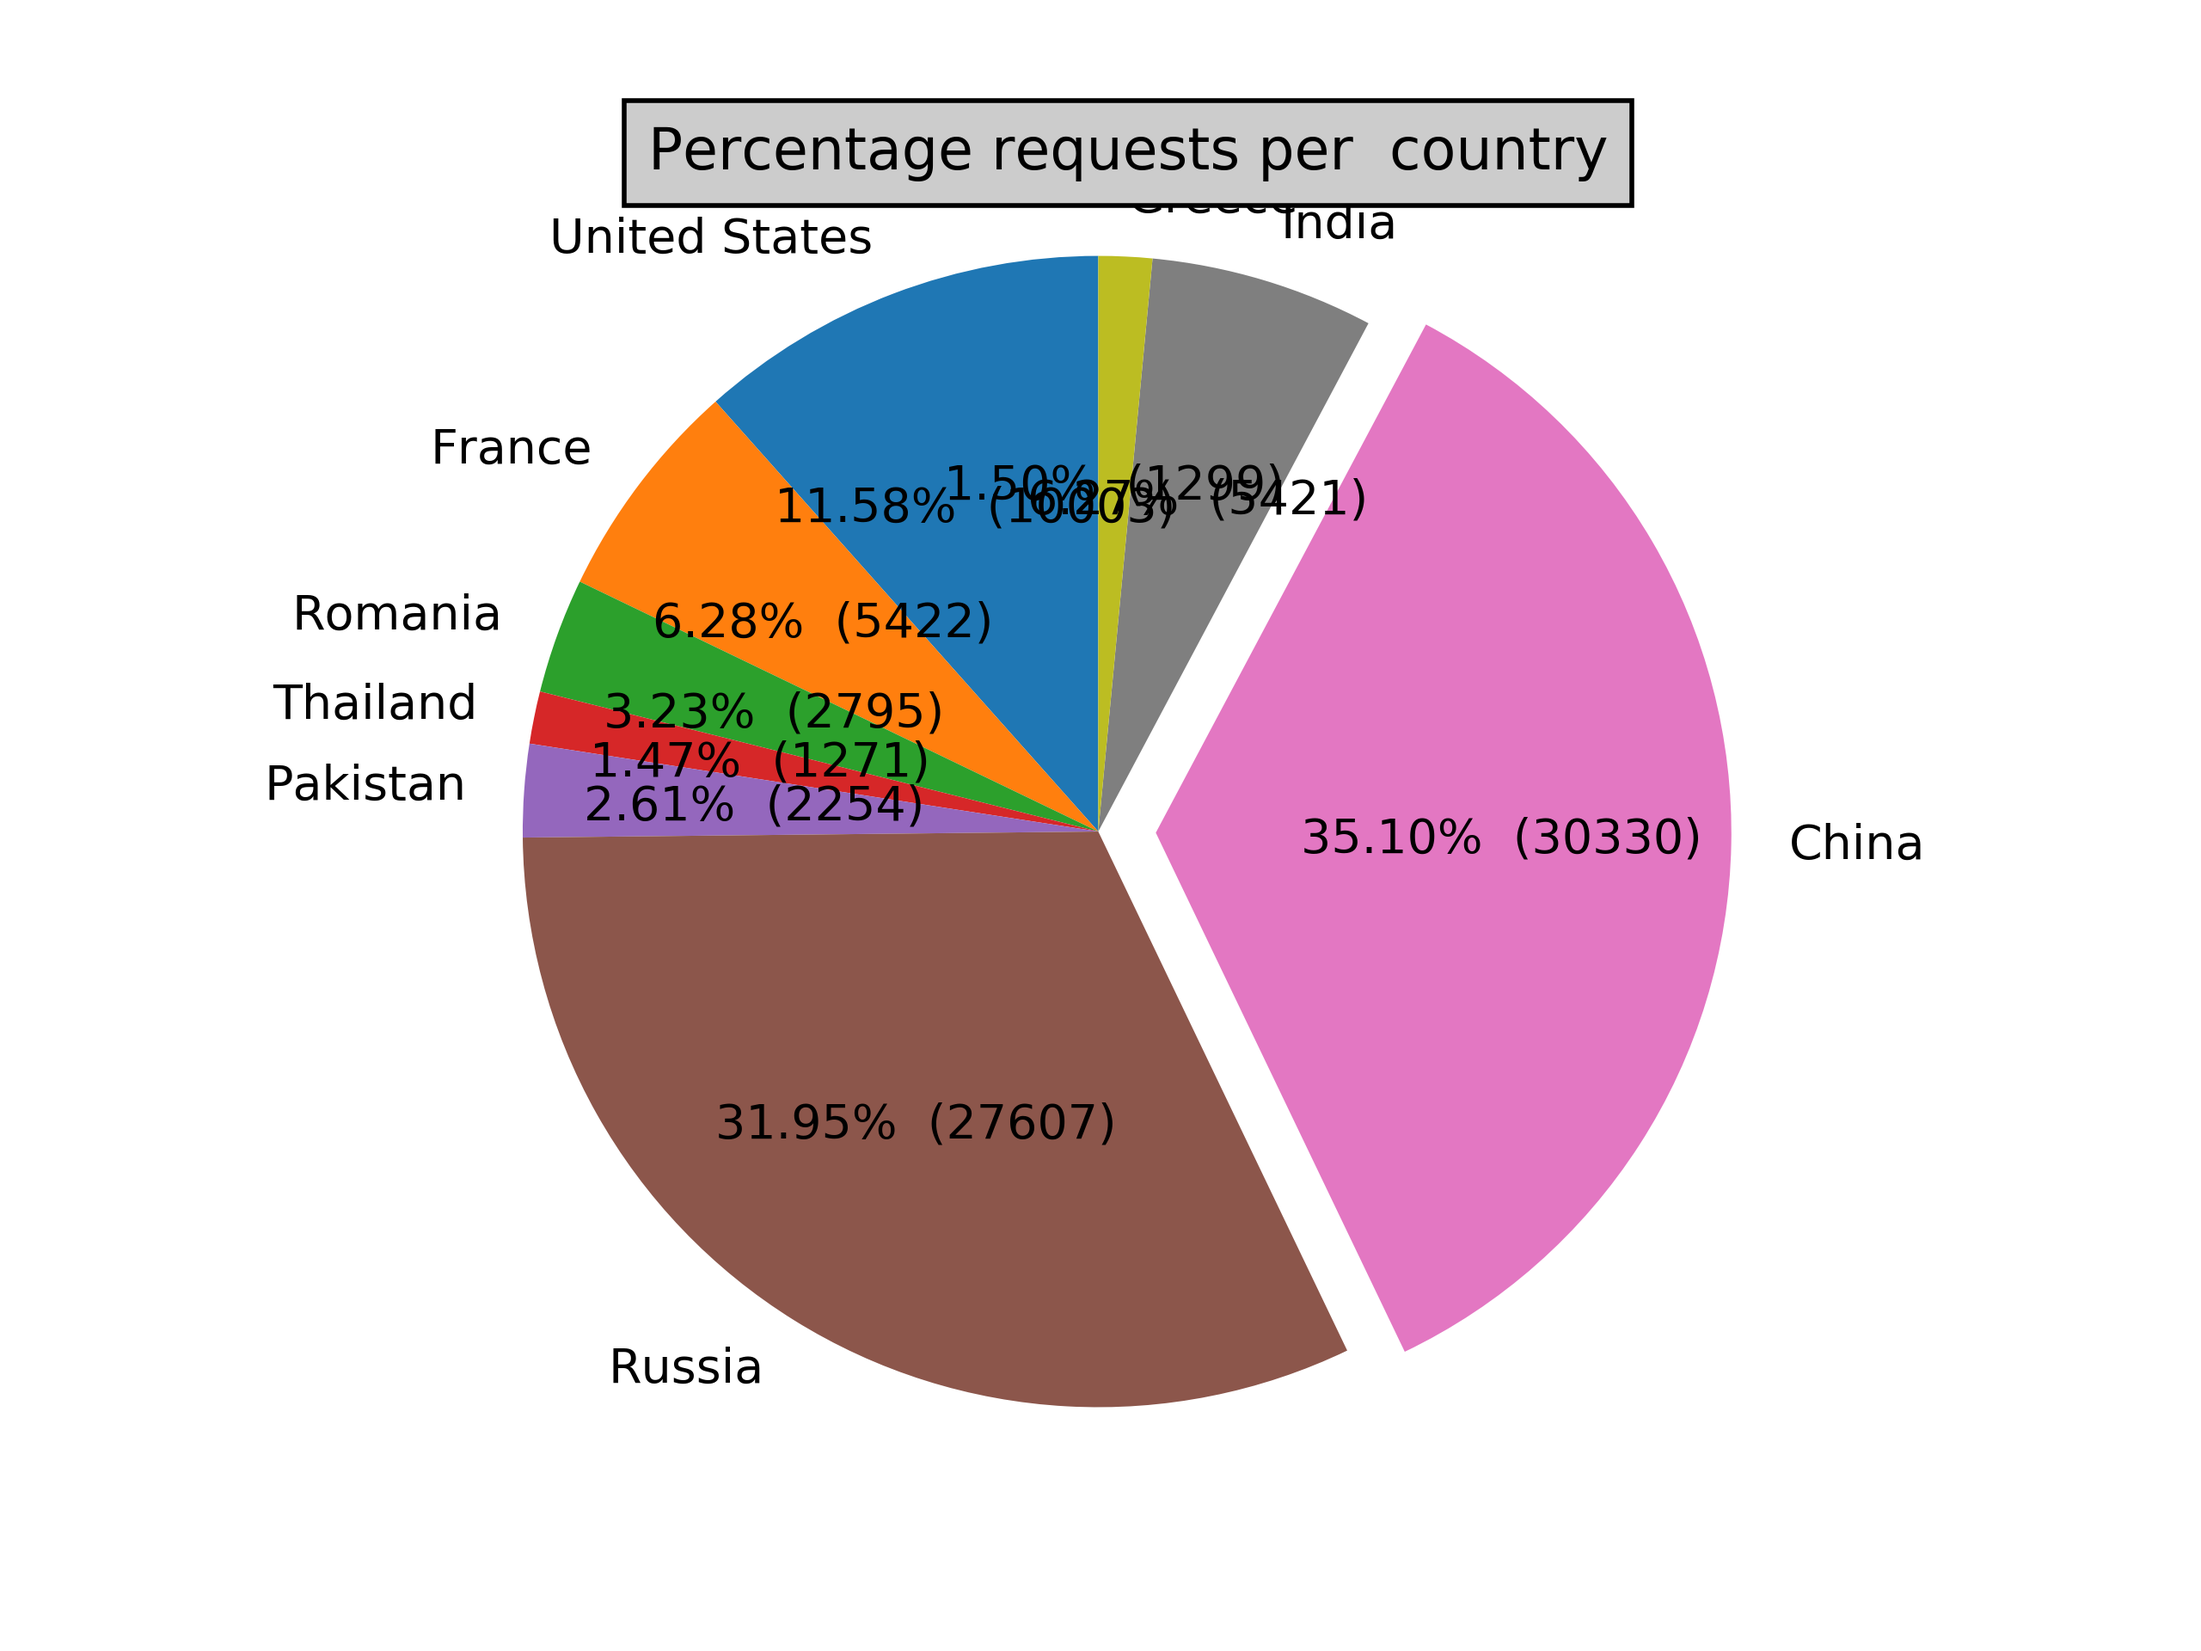
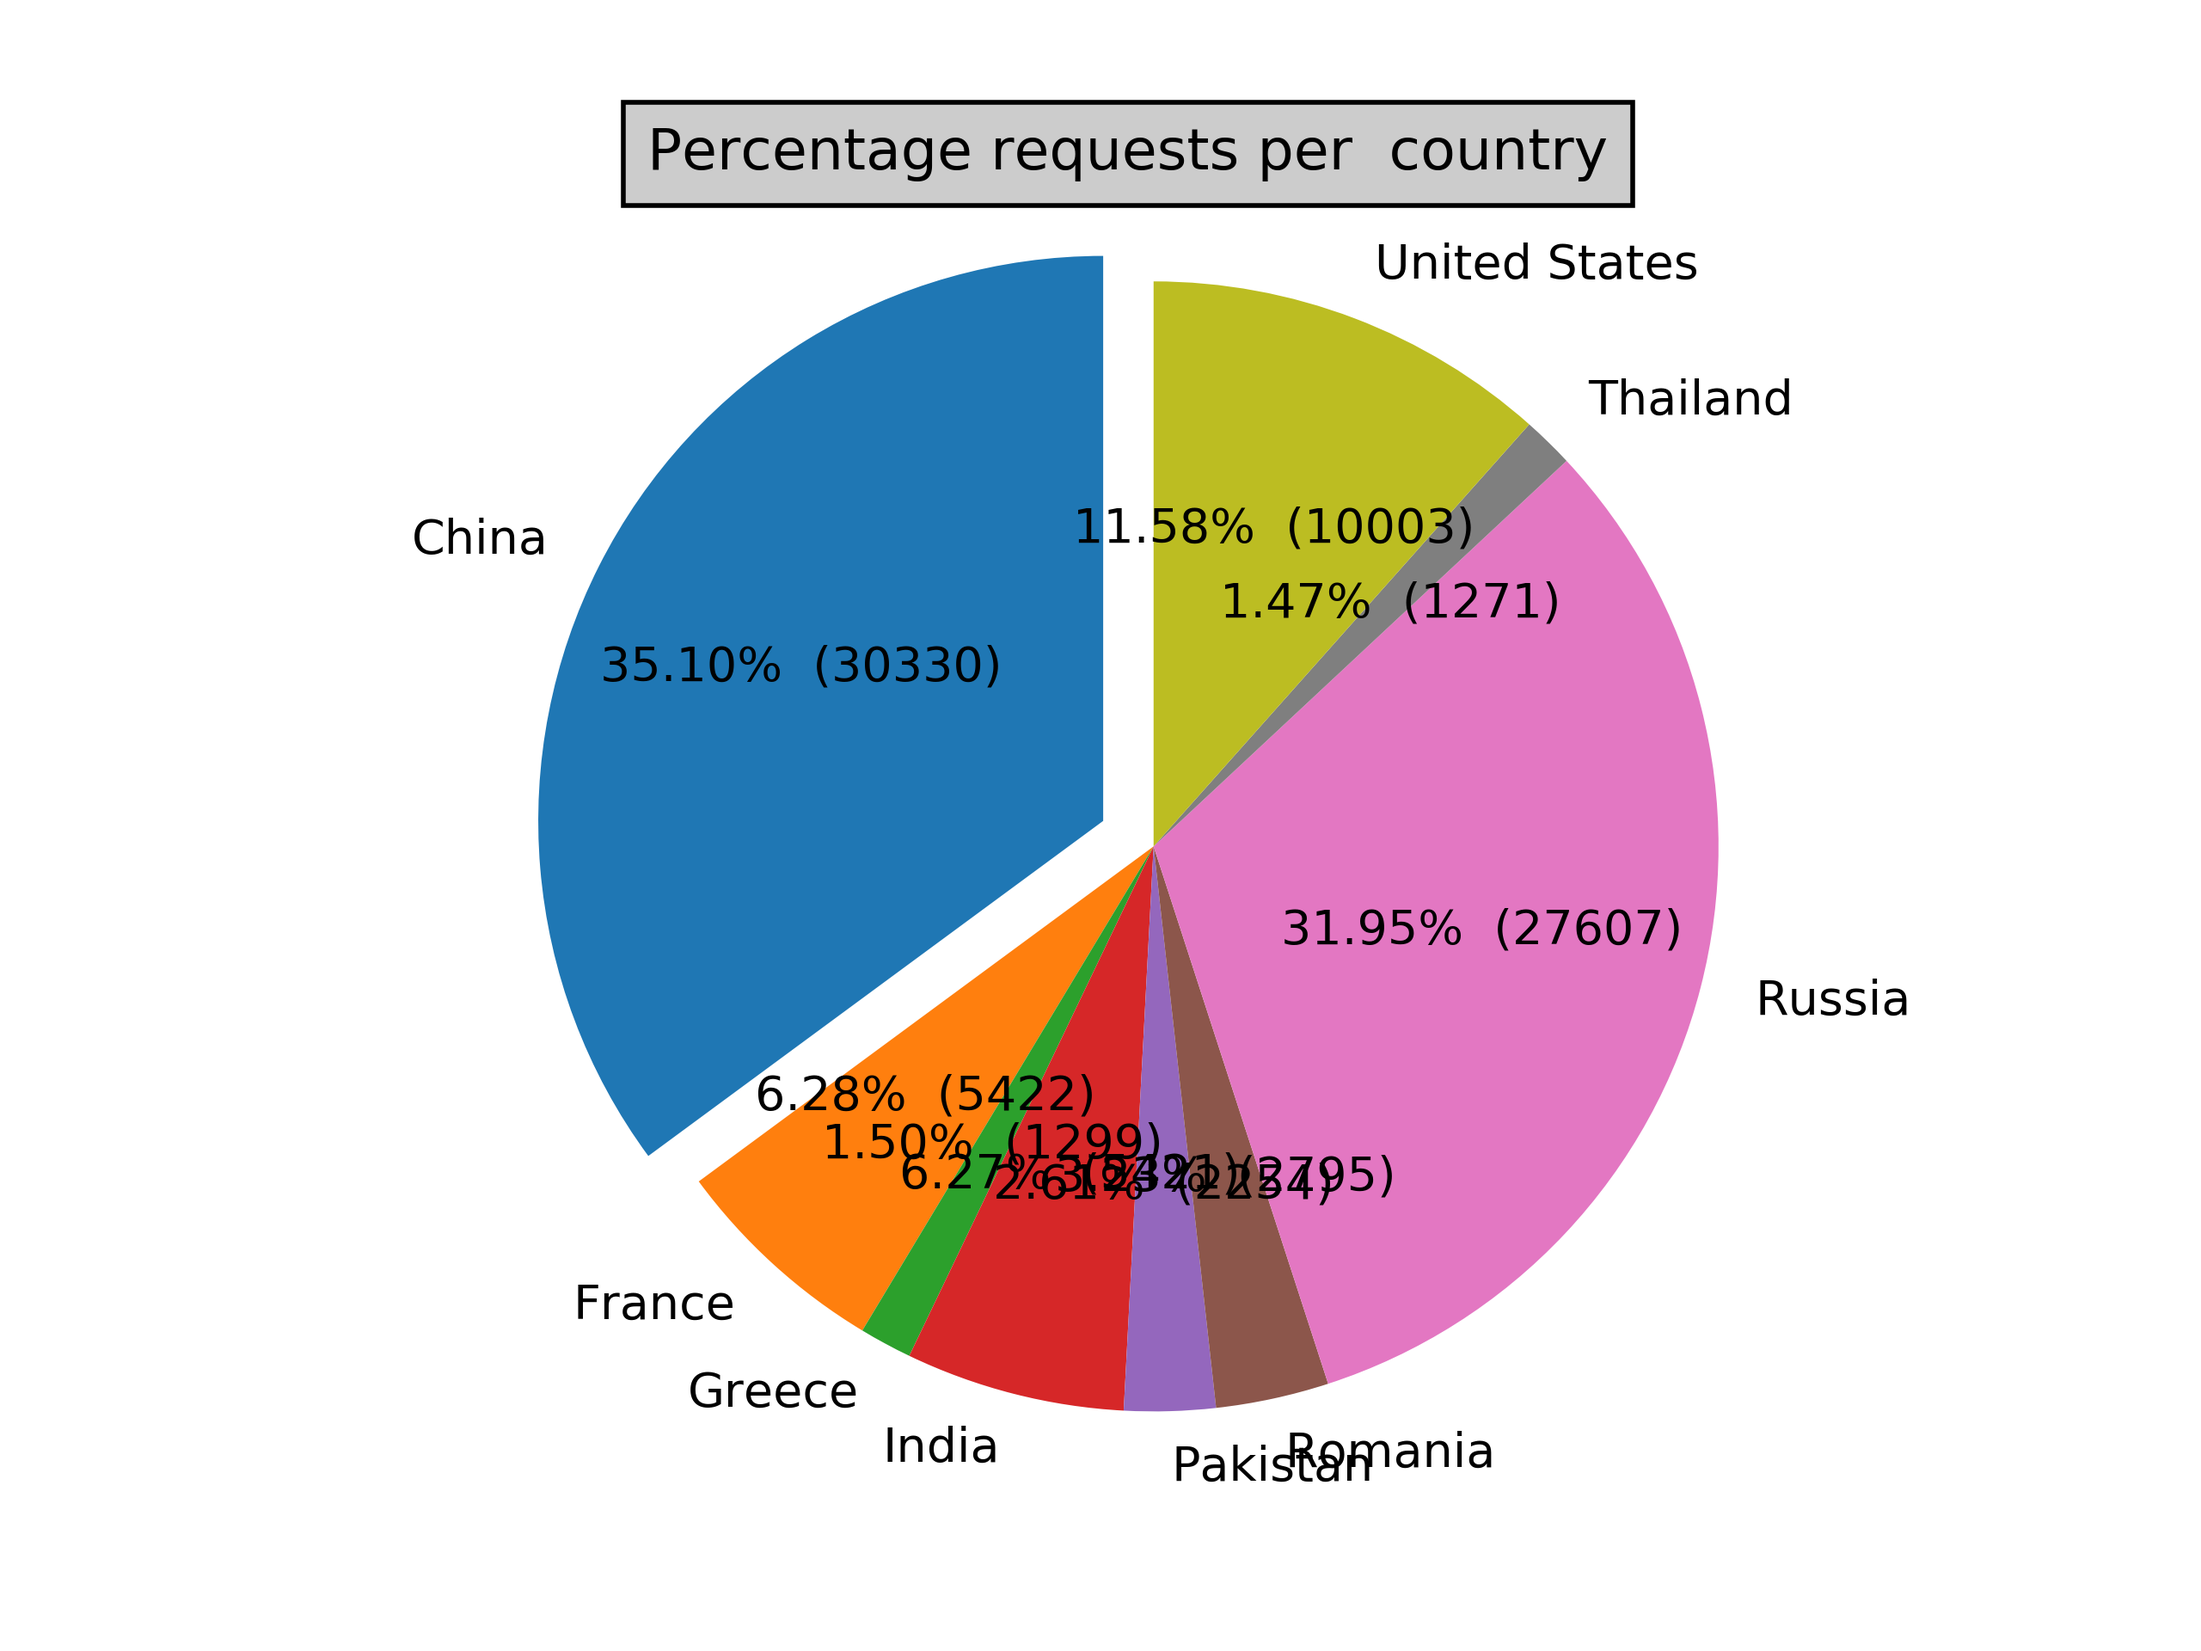
Added database handler to every file

diff --git a/python_code/codes/graphs.py b/python_code/codes/graphs.py
@@ -1,4 +1,4 @@
-from codes.parser import getTotalRequests
+from codes.parser import getTotalRequests, getTotalUniqueIps, getNotOkRequestsPerHour
 import matplotlib.pyplot as plt
 
 plt.rcdefaults()
@@ -6,7 +6,6 @@ import numpy as np
 import plotly
 import plotly.graph_objs as go
 import pandas as pd
-from codes.parser import mapIpsToCountries
 from codes.parser import getUniqueIPs
 from codes.parser import getRequestsPerIP
 import pycountry
@@ -32,21 +31,22 @@ def make_autopct(values):
     return my_autopct
 
 
-def requestsPerCountry(unique_ips, requestsPerIp, dictOfCountries):
-    countries = [country for country in dictOfCountries.keys()]
-    requestsPerCountry = [0 for i in countries]
-    for index, country in enumerate(countries):
-        ips = dictOfCountries[country]
-        for ip in ips:
-            requestsPerCountry[index] += requestsPerIp[unique_ips.index(ip)]
+def reqsPerCountry(data):
+    countries = []
+    requestsPerCountry = []
+    for d in data:
+        countries.append(d.country)
+        requestsPerCountry.append(int(d.totalReq))
+
     return countries, requestsPerCountry
 
 
-def getPieGraphForAllTheRequestsPerIp(unique_ips, requestsPerIp, dictOfCountries):
-    countries, requestPerCountry = requestsPerCountry(unique_ips, requestsPerIp, dictOfCountries)
+def getPieGraphForAllTheRequestsPerIp():
+    data = getTotalUniqueIps()
+    countries, requestPerCountry = reqsPerCountry(data)
     fig1, ax1 = plt.subplots()
-    explode = [0.1 if k == max(requestsPerCountry) else 0 for k in requestsPerCountry]
-    ax1.pie(requestsPerCountry, labels=countries, autopct=make_autopct(requestsPerCountry), explode=explode,
+    explode = [0.1 if k == max(requestPerCountry) else 0 for k in requestPerCountry]
+    ax1.pie(requestPerCountry, labels=countries, autopct=make_autopct(requestPerCountry), explode=explode,
             shadow=False, startangle=90)
     # ax1.pie(requestsPerCountry, labels=countries, autopct="%1.1f%%", explode=explode,
     #        shadow=False, startangle=90)
@@ -59,7 +59,7 @@ def getDataFrame(myData):
     uniqueIPs = getUniqueIPs(myData)
     x1, x2 = mapIpsToCountries(uniqueIPs)
     x, requestsPerIp = getRequestsPerIP(myData, uniqueIPs)
-    countries, requestsPercountry = requestsPerCountry(list(uniqueIPs), requestsPerIp, x1)
+    countries, requestsPercountry = reqsPerCountry(list(uniqueIPs), requestsPerIp, x1)
     beforeDataFrame = []
     for index, country in enumerate(countries):
         if country == "Russia":
@@ -75,7 +75,8 @@ def getDataFrame(myData):
     return df
 
 
-def worldGraph(myData):
+def worldGraph():
+    print(getNotOkRequestsPerHour()[0])
     df = getDataFrame(myData)
     print(df)
     data = [go.Choropleth(
@@ -128,5 +129,7 @@ def worldGraph(myData):
     plotly.offline.plot(fig, filename='d3-world-map')
 
 
-data = getTotalRequests("../daily-logs/website-access.log.")
-worldGraph(data)
+# data = getTotalRequests()
+# getBarGraphRequestsPerHour(getRequestsPerHour(data))
+# getPieGraphForAllTheRequestsPerIp()
+worldGraph()

diff --git a/python_code/codes/parser.py b/python_code/codes/parser.py
@@ -12,8 +12,33 @@ def getTotalRequests():
     :return:
     '''
     db = databaseHandler.databaseHandler()
-    return db.selectAllOK()
+    return db.selectAllRecords()
 
+
+def getTotalUniqueIps():
+    db = databaseHandler.databaseHandler()
+    return db.selectAllUniqueIps()
+
+
+def getNotOkRequestsPerHour():
+    db = databaseHandler.databaseHandler()
+    result = db.selectAllNotOKPerHour()
+    response=[dict() for i in range(24)]
+    actualResponse = [[] for i in range(24)]
+    for index, perHour in enumerate(result):
+        for singleRequest in perHour:
+            k = db.getCountryOfIp(singleRequest.remote_host)
+            if k.country + ',' + k.code not in response[index]:
+                response[index][k.country + ',' + k.code] = 0
+            response[index][k.country + ',' + k.code] += 1
+
+    for index, i in enumerate(response):
+        for j in i:
+            toAppend = j.split(',')
+            toAppend.append(i[j])
+            actualResponse[index].append(toAppend)
+
+    return actualResponse
 
 # getting the requests that got 5xx
 def get5xxRequests(data):
@@ -48,7 +73,6 @@ def insertUniqueIps(unique_ips):
         data = r.json()
         db = databaseHandler.databaseHandler()
         db.insertUniqueIp(ip, data['country'], data['countryCode'])
-
 
 
 def getRequestsPerIP(data, unique_ips=[]):

diff --git a/python_code/codes/databaseHandler.py b/python_code/codes/databaseHandler.py
@@ -1,5 +1,6 @@
 import mysql.connector
 from codes.config import DATABASE_CONFIG
+from codes.parserWithTime import getRequestsPerHour
 import pycountry
 
 
@@ -32,6 +33,10 @@ class databaseHandler:
         self.cur.execute("SELECT * FROM requests WHERE request_type != 'OK'")
         return self.getResults(self.cur)
 
+    def selectAllNotOKPerHour(self):
+        self.cur.execute("SELECT * FROM requests WHERE request_type != 'OK'")
+        return getRequestsPerHour(self.getResults(self.cur))
+
     def selectAllOfType(self, requestType):
         self.cur.execute("SELECT * FROM requests WHERE request_type = '" + requestType + "'")
         return self.getResults(self.cur)
@@ -53,7 +58,15 @@ class databaseHandler:
 
     def countUniqueIps(self):
         self.cur.execute("SELECT COUNT(*) as 'ipcount' from requests GROUP BY(remote_host)")
+        return len(self.getResults(self.cur))
+
+    def selectAllUniqueIps(self):
+        self.cur.execute("SELECT country, sum(totalRequests) as 'totalReq' FROM uniqueips GROUP BY(country)")
         return self.getResults(self.cur)
+
+    def getCountryOfIp(self, ip):
+        self.cur.execute("SELECT country, code FROM uniqueips WHERE ip = '" + ip + "'")
+        return self.getResults(self.cur)[0]
 
 
 class dotdict(dict):

diff --git a/python_code/codes/parserWithTime.py b/python_code/codes/parserWithTime.py
@@ -1,4 +1,3 @@
-from codes.parser import getTotalRequests
 import datetime
 
 
@@ -8,18 +7,18 @@ def getRequestsPerHour(data):
     :param data: total requests
     :return: requests pre hour
     '''
-    requestsPerHour = [0 for i in range(24)]
+    requestsPerHour = [[] for i in range(24)]
     for request in data:
         requestsPerHour[
-            datetime.datetime.strptime(request.get('time_received_tz_isoformat'), "%Y-%m-%dT%H:%M:%S+02:00").hour] += 1
+            datetime.datetime.strptime(request.get('time_received_tz_isoformat'), "%Y-%m-%dT%H:%M:%S+02:00").hour].append(request)
     return requestsPerHour
 
 
-# data = getTotalRequests("../daily-logs/website-access.log.")
-
+# data = getTotalRequests()
+#
 # for hour in getRequestsPerHour(data):
 #     print(hour)
-
+#
 # print(sum(getRequestsPerHour(data)))
 # print(data[0].keys())
 # print(data[0].values())

diff --git a/python_code/codes/main.py b/python_code/codes/main.py
@@ -1,5 +1,6 @@
 import codes.databaseHandler as databaseHandler
 import codes.parser as parser
+import datetime
 
 
 def executeFirstQuestion():
@@ -10,10 +11,11 @@ def printFirstQuestion(first, second, third):
     print('Γενικά: ')
     print(' 1: ' + str(format(first, ".2f")) + '%')
     print(' 2: ' + str(second))
-    print(' 3: ' + str(len(third)))
+    print(' 3: ' + str(third))
 
 
 db = databaseHandler.databaseHandler()
 allNotOk = db.selectAllNotOK()
-allRecords = db.selectAllRecords()
-executeFirstQuestion()
+# allRecords = db.selectAllRecords()
+
+# executeFirstQuestion()
